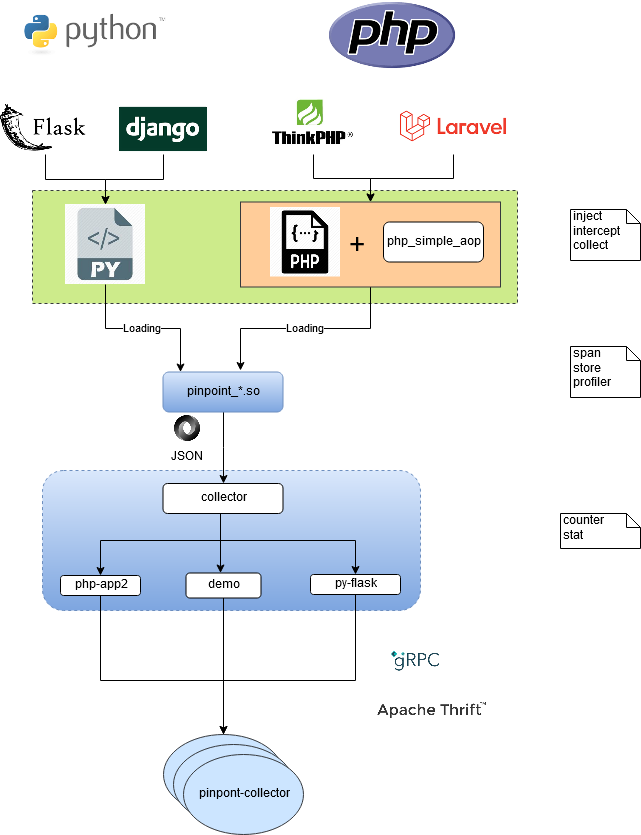
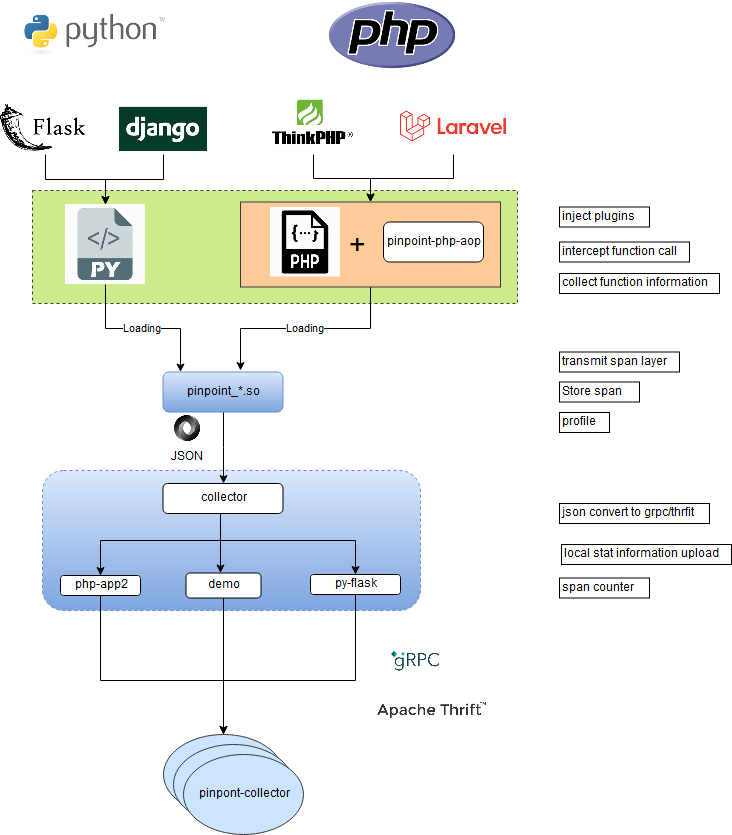
update naming

diff --git a/Example/PHP/Readme-CN.md b/Example/PHP/Readme-CN.md
@@ -40,7 +40,7 @@
     ```
     
 6. 更新您的autoload. $ composer update。
-7. 现在，您可以使用pinpoint-php-agent了。
+7. 现在，您可以使用pinpoint-php-aop了。
 ## 协议
 
 > Json -> Thrift/GRPC

diff --git a/Example/PHP/Readme.md b/Example/PHP/Readme.md
@@ -41,7 +41,7 @@
     ```
     
 6. Update your autoload. $ composer update.
-7. Enjoy the pinpoint-php-agent.
+7. Enjoy the pinpoint-php-aop.
 ## Protocol
 
 > Json -> Thrift/GRPC

diff --git a/Example/PHP/example/Flarum/Readme-CN.md b/Example/PHP/example/Flarum/Readme-CN.md
@@ -3,7 +3,7 @@
 ```  json
 
  "require": {
-        "naver/pinpoint-php-agent": "v1.0.1"
+        "naver/pinpoint-php-aop": "v1.0.1"
     }
     
 ```

diff --git a/Example/PHP/example/Flarum/Readme.md b/Example/PHP/example/Flarum/Readme.md
@@ -3,7 +3,7 @@
 ```  json
 
  "require": {
-        "naver/pinpoint-php-agent": "v1.0.1"
+        "naver/pinpoint-php-aop": "v1.0.1"
     }
     
 ```

diff --git a/Example/PHP/demo/yii-demo/Readme.md b/Example/PHP/demo/yii-demo/Readme.md
@@ -25,7 +25,7 @@
 ```
  "require": {
      ...
-     "naver/pinpoint-php-agent": "v1.0.1"
+     "naver/pinpoint-php-aop": "v1.0.1"
      ...
  }
 
